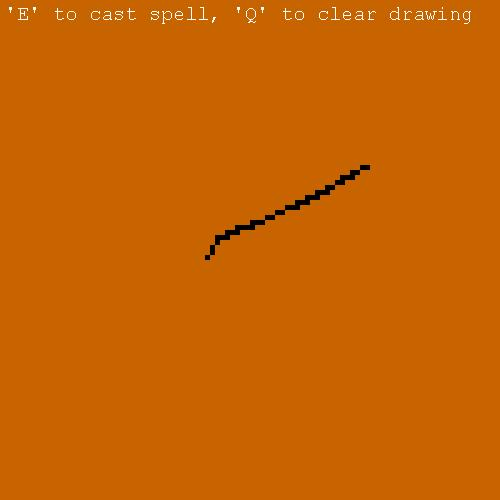
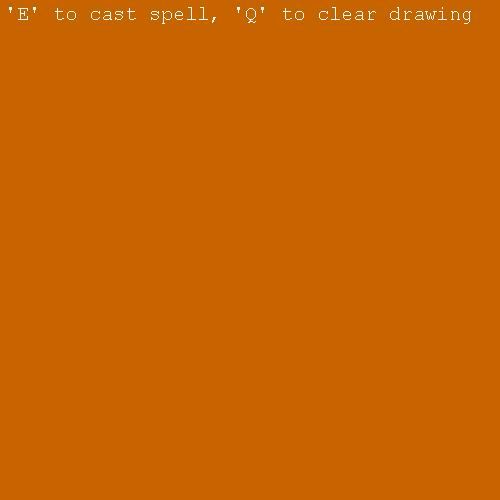
fixed agility spell

Changed region(s): [[0.57, 0.33, 0.75, 0.42], [0.42, 0.42, 0.57, 0.51], [0.39, 0.51, 0.42, 0.54]]

diff --git a/src/Main/java/SpellCasting/SpellAgility.java b/src/Main/java/SpellCasting/SpellAgility.java
@@ -2,17 +2,13 @@ package SpellCasting;
 
 import Levels.Characters.Player;
 
-import java.util.concurrent.TimeUnit;
-
 public class SpellAgility extends Spell {
 
-    private int castTime = 0;
+    private long duration;
 
     @Override
     public void castSpell(Object[] args) {
-        System.out.println("cast");
-        // 5 seconds
-        castTime = 150;
+        duration = System.currentTimeMillis();
         Player.getInstance().setAgilityPower(1);
     }
 
@@ -21,10 +17,8 @@ public class SpellAgility extends Spell {
 
     }
 
-    public void countDown() {
-        if (castTime > 0) {
-            castTime--;
-        } else {
+    public void checkDuration() {
+        if (System.currentTimeMillis() - duration > 5000) {
             Player.getInstance().setAgilityPower(0);
         }
     }

diff --git a/src/Main/java/AI/ImageRecognition/RunDrawingCanvas.java b/src/Main/java/AI/ImageRecognition/RunDrawingCanvas.java
@@ -21,14 +21,12 @@ public class RunDrawingCanvas {
 
     public RunDrawingCanvas() {
         // rendering
-        // magic numbers subtracted from 550 to fit to screen
-        canvasTextureLoc = new Vector3f(-600f / 1920f, -600f / 1080f, 0f);
+        canvasTextureLoc = new Vector3f(-1124f / 1920f, -687f / 1080f, 0f);
         shader = new Shader("flatShader");
         camera = new Camera();
         transform = new Transform();
         transform.setPosition(canvasTextureLoc);
-        // the 620 should be 600 but window is weird
-        transform.setScale(new Vector3f(600f / 1920f, 620f / 1080, 1f));
+        transform.setScale(new Vector3f(1124f / 1920f, 700f / 1080f, 1f));
         renderer = TileRenderer.getInstance();
     }
 

diff --git a/src/Main/java/Main/Input/InGameController.java b/src/Main/java/Main/Input/InGameController.java
@@ -145,7 +145,7 @@ public class InGameController extends Controller {
         // handle spell countdown (can make array or something later for more spells)
         if (spell != null) {
             if (spell instanceof SpellAgility) {
-                ((SpellAgility) spell).countDown();
+                ((SpellAgility) spell).checkDuration();
             }
         }
     }

diff --git a/src/Main/java/Levels/Assets/Tiles/GUIElements.java b/src/Main/java/Levels/Assets/Tiles/GUIElements.java
@@ -22,7 +22,7 @@ public enum GUIElements {
             "GUI_background.png"
     ),
     CANVAS (
-            "canvas_bg.png"
+            "canvas_bg2.png"
     );
 
     private final Texture texture;
